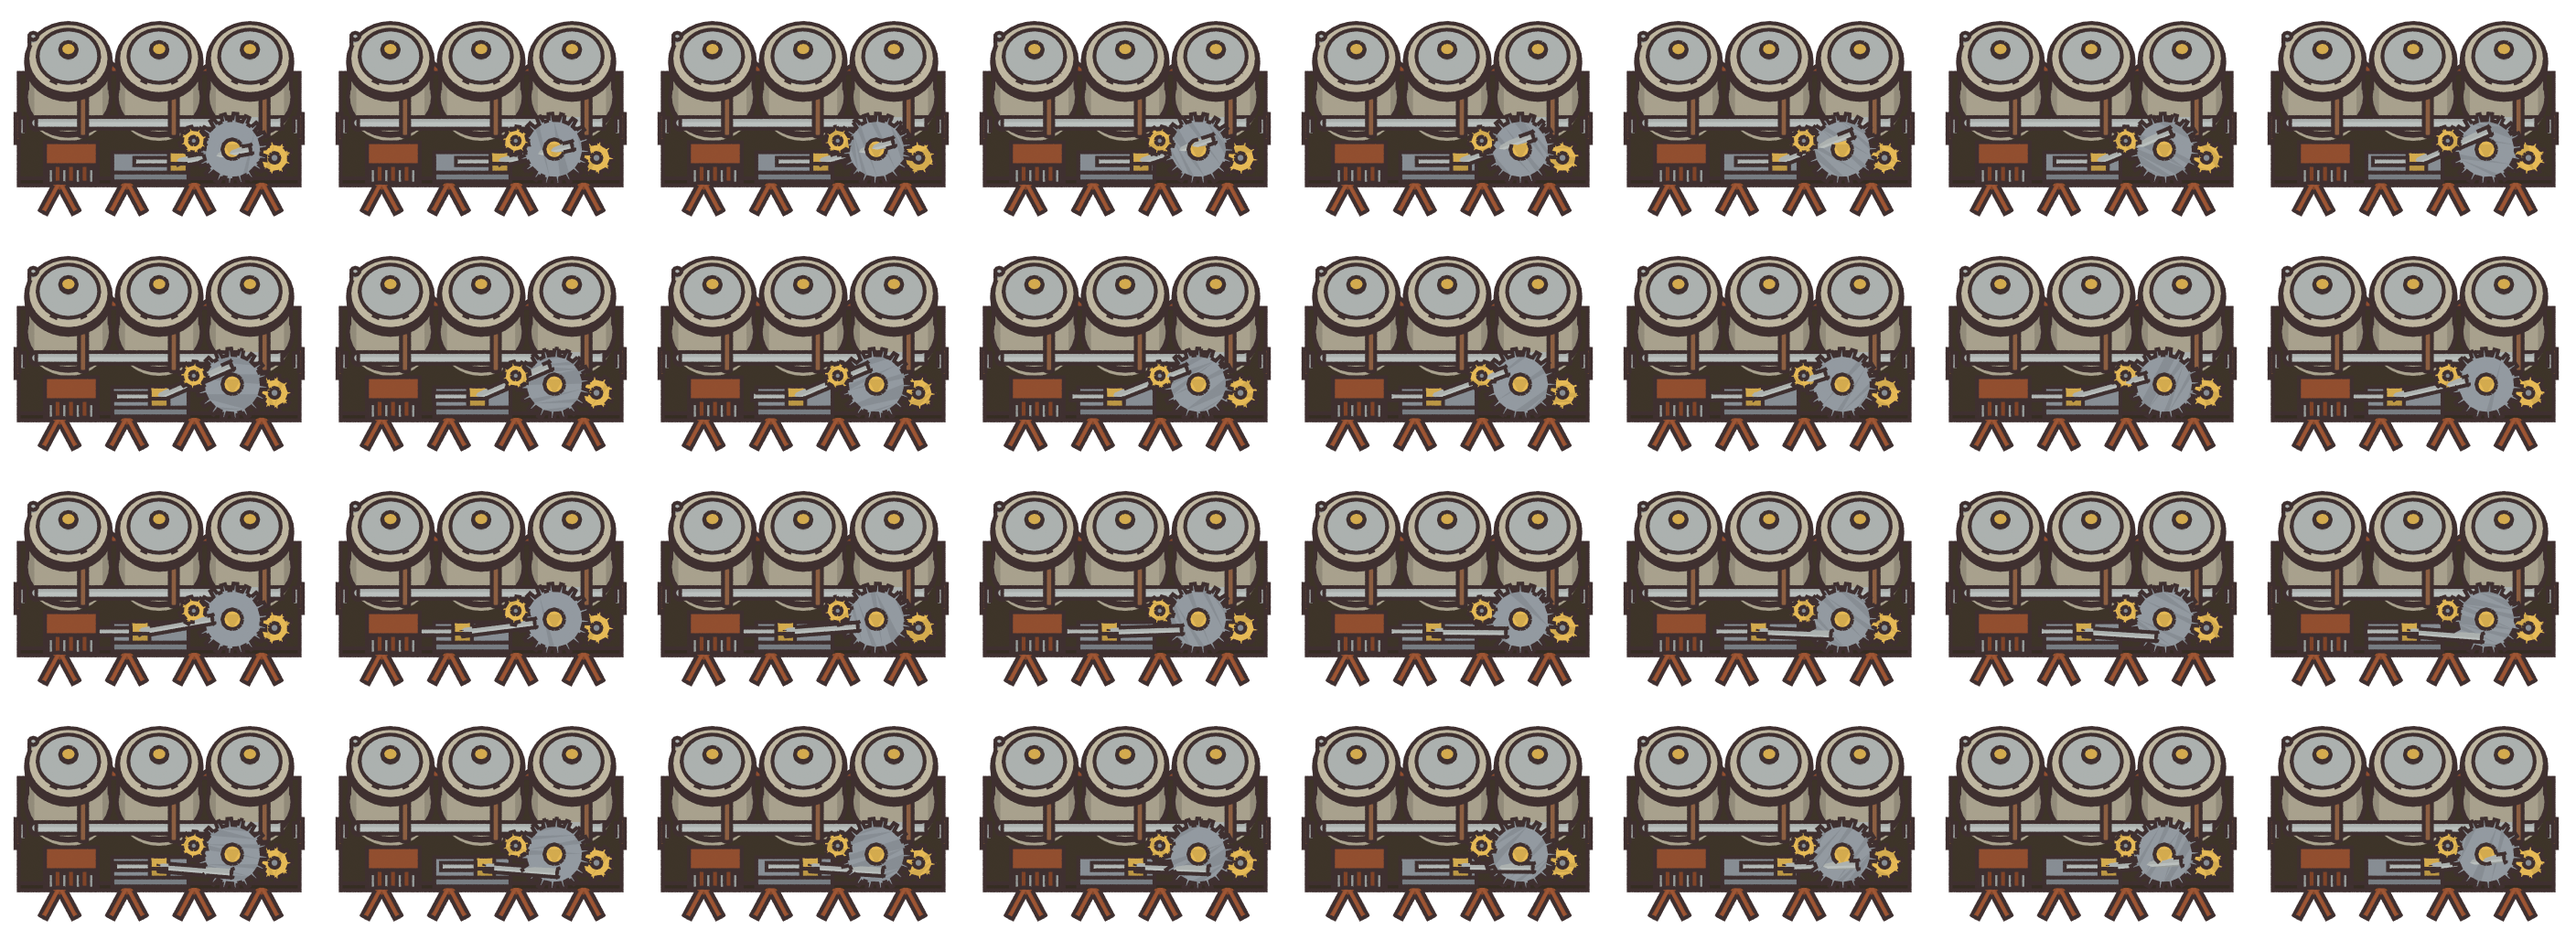
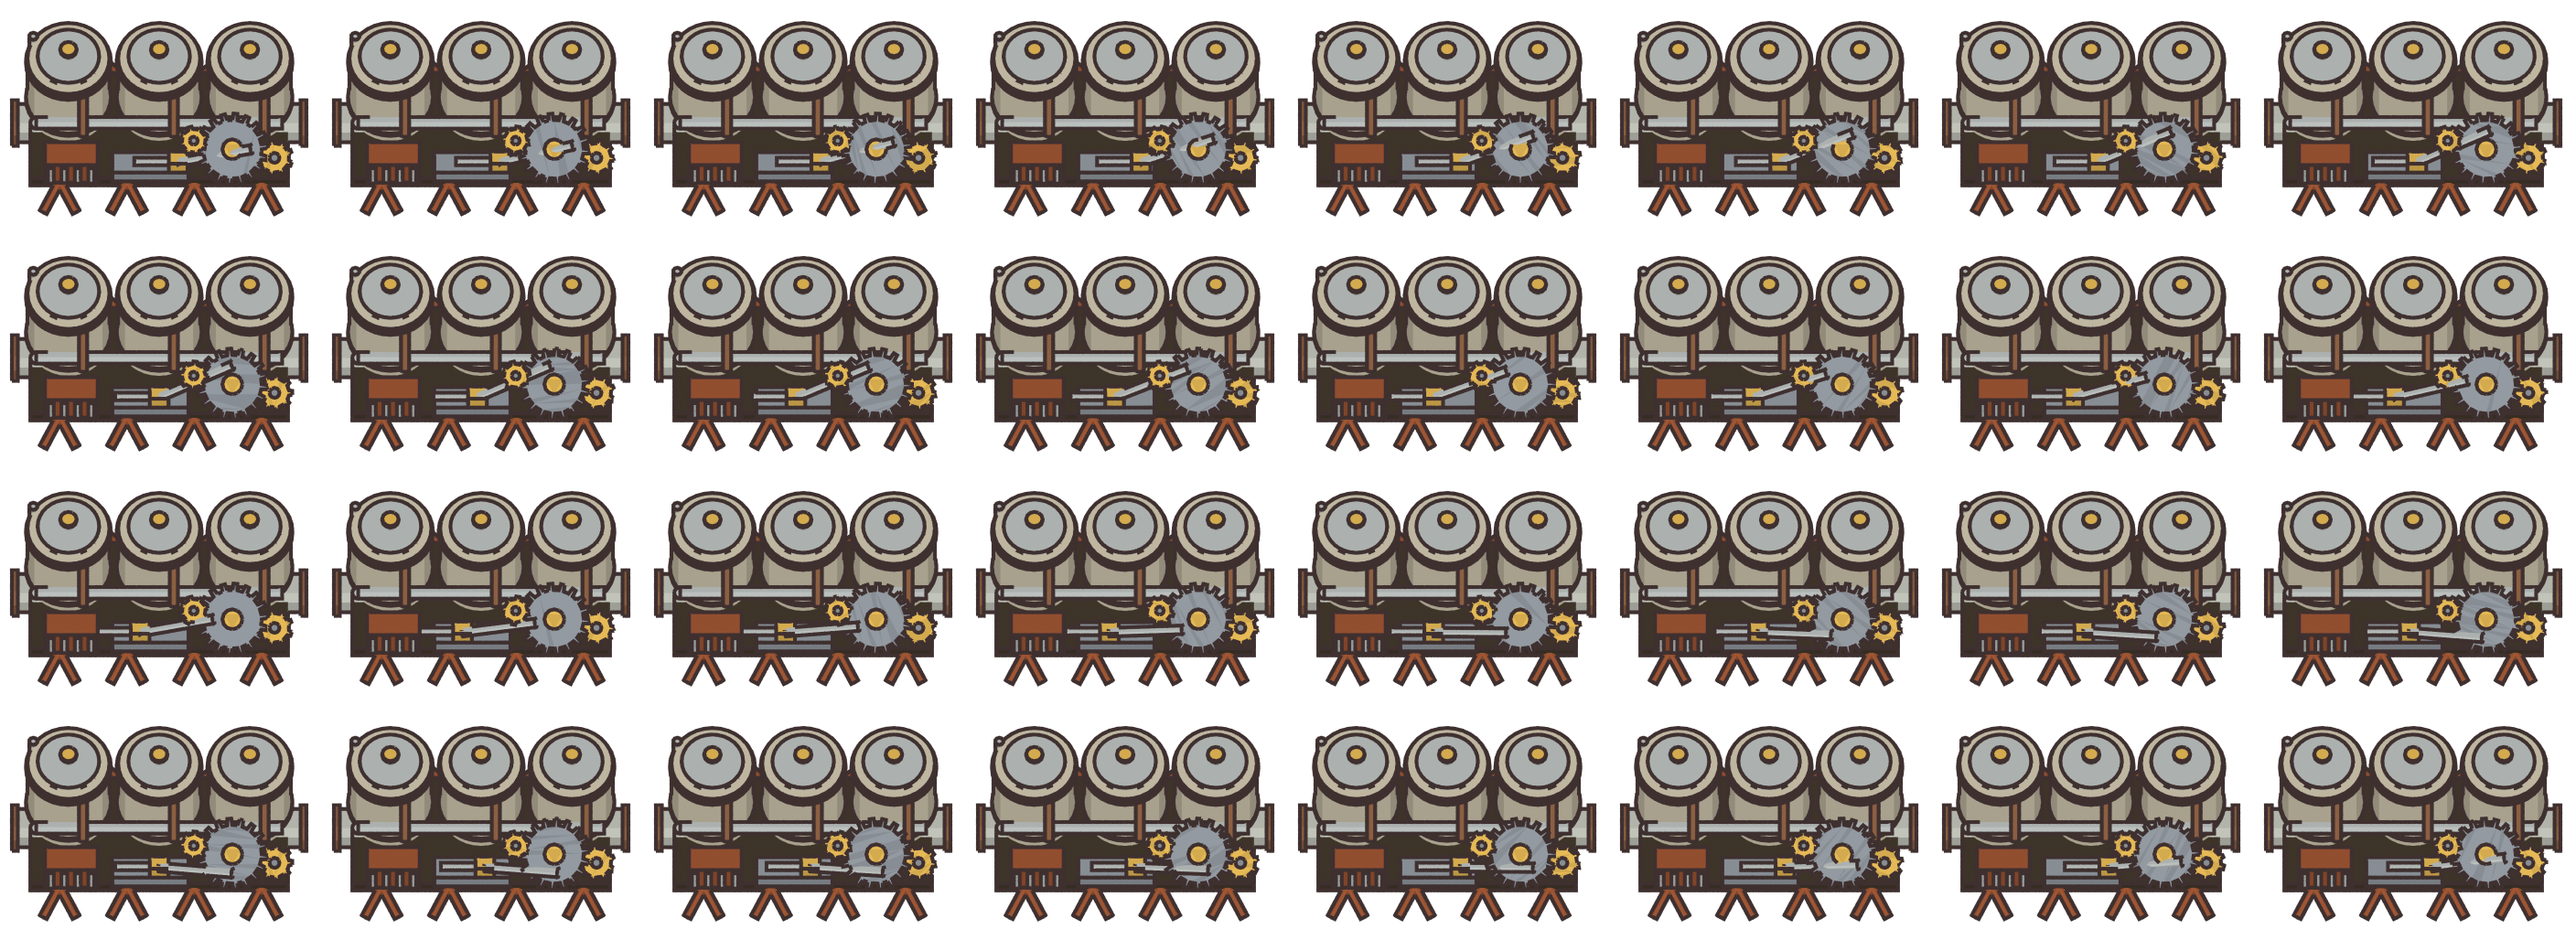
Machine à vapeur : raccords jointifs entre machines en file
- Embouts des raccords faits du tube et de la bride du tuyau (pipe.py), au bord
  de la case comme ceux de la chaudière : ils tombent sur le tuyau voisin, et
  deux machines en file forment un joint à deux brides.
- Châssis raccourci (4,8 -> 4,4 cases) pour dégager le joint, comme l'original.
- Planche verticale allongée nord-sud de 1/cos 30° : le sol étant raccourci à
  l'écran, la machine ne couvrait que 4,3 de ses 5 cases (vide entre deux
  machines en file).
- Galerie : file est-ouest de deux machines, tuyau à chaque bout.

diff --git a/cartoon/blender/steam_engine.py b/cartoon/blender/steam_engine.py
@@ -12,10 +12,13 @@ Usage : python cartoon/blender/steam_engine.py <dossier_sortie> [H|V|toutes] [--
 Les restes sont laissés d'origine (lot 3.9).
 
 La machine (5 x 3 cases) : châssis sombre sur pieds en A rouille, trois cylindres à vapeur verticaux en rangée
-(tôle claire, couvercle à soupape), raccords de fluide aux deux bouts, longue conduite claire devant les
-cylindres, volant et engrenages sur la face avant à droite, entraînés par une bielle depuis une crosse qui coulisse.
+(tôle claire, couvercle à soupape), longue conduite claire devant les cylindres, volant et engrenages sur la face
+avant à droite, entraînés par une bielle depuis une crosse qui coulisse. Aux deux bouts, les raccords sont le tube
+et la bride du tuyau (pipe.py), au bord de la case comme ceux de la chaudière : entre deux machines en file, les
+deux brides forment le joint, dégagé par un châssis plus court que la machine (comme l'original).
 Modèle construit à l'horizontale (axe x) puis tourné pour la planche verticale : les engrenages passent alors sur
-le côté gauche, comme dans l'original. L'animation (32 images, en boucle) fait un tour de volant.
+le côté gauche, comme dans l'original. La planche verticale est allongée nord-sud de KY (le sol est raccourci
+de cos 30° à l'écran) pour couvrir ses 5 cases, sinon un vide sépare deux machines en file. L'animation (32 images, en boucle) fait un tour de volant.
 """
 import math, os, sys
 import cv2
@@ -23,6 +26,7 @@ import numpy as np
 
 sys.path.insert(0, os.path.dirname(os.path.abspath(__file__)))
 import style as S
+import pipe as PIPE
 from lib import box, crop_centered, cyl, entity_path, gear, load, mat, render_scene, render_shadow, reset, rod, save_icon, sheet
 
 P = S.PALETTE
@@ -32,6 +36,7 @@ CANVAS = 768                                    # l'ombre horizontale (508 px, d
 N_FRAMES, COLUMNS = 32, 8
 SUN_SHEAR = (0.45, 0.02)
 OUTLINE = 0.022
+KY = 1 / math.cos(math.radians(S.PITCH_BUILDING_DEG))   # le sol nord-sud est raccourci de cos 30° à l'écran
 YAW = {"H": 0, "V": -90}                       # verticale : l'avant (engrenages) passe à gauche
 # cadres de l'original (taille, décalage en px = shift x 64) : sprite, puis ombre
 FRAMES = {
@@ -41,7 +46,7 @@ FRAMES = {
 
 # dimensions (cases), ajustées sur la silhouette de l'original (deux planches, image 0)
 DIMS = dict(
-    L=4.8, D=2.6,                  # châssis : longueur (x), profondeur (y)
+    L=4.4, D=2.6,                  # châssis : longueur (x), profondeur (y) ; raccourci pour dégager les raccords
     zc=0.5,                        # dessus du châssis
     rk=0.7, hk=1.6, yk=0.4,        # cylindres : rayon, hauteur au-dessus du châssis, position y
     down=0.24,                     # décalage de tout le dessin vers le bas de l'écran (comme les originaux)
@@ -93,10 +98,7 @@ def build(view="H", phase=0.0, d=None):
         for s in (-1, 1):
             rod((x - 0.28, s * D * 0.55, 0.02), (x, s * D * 0.38, zc - 0.2), 0.07, rust, verts=8)
             rod((x + 0.28, s * D * 0.55, 0.02), (x, s * D * 0.38, zc - 0.2), 0.07, rust, verts=8)
-    # raccords de fluide aux deux bouts (y = 0), brides
-    for s in (-1, 1):
-        rod((s * (L / 2 - 0.1), 0, 0.4), (s * 2.42, 0, 0.4), 0.18, pipe, verts=20)
-        cyl((s * 2.42, 0, 0.4), 0.25, 0.07, copper, verts=20, rot=(0, 90, 0))
+    # raccords de fluide aux deux bouts : posés après la rotation (connectors)
     # trois cylindres à vapeur au fond du plateau, couvercle et soupape laiton
     rk, hk, yk = d["rk"], d["hk"], d["yk"]
     for x in TANK_X:
@@ -110,7 +112,7 @@ def build(view="H", phase=0.0, d=None):
     # conduite claire devant les cylindres, de bout en bout, qui descend vers le raccord gauche
     yp = yk - rk - 0.08
     rod((-2.1, yp, zc + 0.75), (2.1, yp, zc + 0.75), 0.1, pipe, verts=16)
-    rod((-2.1, yp, zc + 0.75), (-2.1, 0, 0.55), 0.1, pipe, verts=16)
+    rod((-2.1, yp, zc + 0.75), (-2.1, 0.1, 0.45), 0.1, pipe, verts=16)
     # devant, sur le plateau : radiateur à gauche (lamelles peintes en bandes), glissière et crosse au centre,
     # volant et engrenages debout à droite, face à l'avant ; une bielle relie la crosse au volant
     yf = yk - rk - 0.6
@@ -136,9 +138,31 @@ def build(view="H", phase=0.0, d=None):
     rod((-2.15, D * 0.3, zc), (-2.15, D * 0.3, zc + 1.7), 0.07, pipe, verts=10)
     bpy.context.view_layer.update()          # matrices à jour (sinon le dernier objet perd son échelle)
     rot = Matrix.Rotation(math.radians(YAW[view]), 4, "Z")
+    if view == "V":                          # nord-sud : allongée de KY pour couvrir ses 5 cases à l'écran
+        rot = Matrix.Diagonal((1, KY, 1, 1)) @ rot
     for o in bpy.context.scene.objects:
         if o.parent is None:
             o.matrix_world = rot @ o.matrix_world
+    connectors(view, d)
+
+
+# raccords du prototype (cases, y vers le sud comme dans le jeu) : position du bord, direction vers l'extérieur
+CONNECTIONS = {"H": [((-2.5, 0), (-1, 0)), ((2.5, 0), (1, 0))], "V": [((0, -2.5), (0, -1)), ((0, 2.5), (0, 1))]}
+STUB = 0.6                                   # longueur de l'embout, du bord de la case vers l'intérieur
+
+
+def connectors(view, d=None):
+    """Embouts des raccords : le tube et la bride du tuyau (pipe.py) au bord de la case, posés dans le repère du
+    monde comme ceux de la chaudière : à l'écran, ils tombent exactement sur ceux d'un tuyau ou d'une autre machine
+    voisine, dont la bride complète le raccord (un bord à `gy` cases du centre, y vers le sud, est en
+    y = (-gy + down) KY + yc dans le monde)."""
+    d = d or DIMS
+    pd, m = PIPE.DIMS, PIPE.mats()
+    for (gx, gy), (vx, vy) in CONNECTIONS[view]:
+        edge = np.array((gx, (-gy + d["down"]) * KY + pd["yc"], pd["r"]))
+        out = np.array((vx, -vy, 0.0))       # repère de Blender : y vers le nord
+        PIPE.tube_path([tuple(edge), tuple(edge - out * STUB)], pd["r"], m["tube"])
+        PIPE.flange(tuple(edge), (-vx, vy), pd, m)
 
 
 def camera_shift(d=None):
